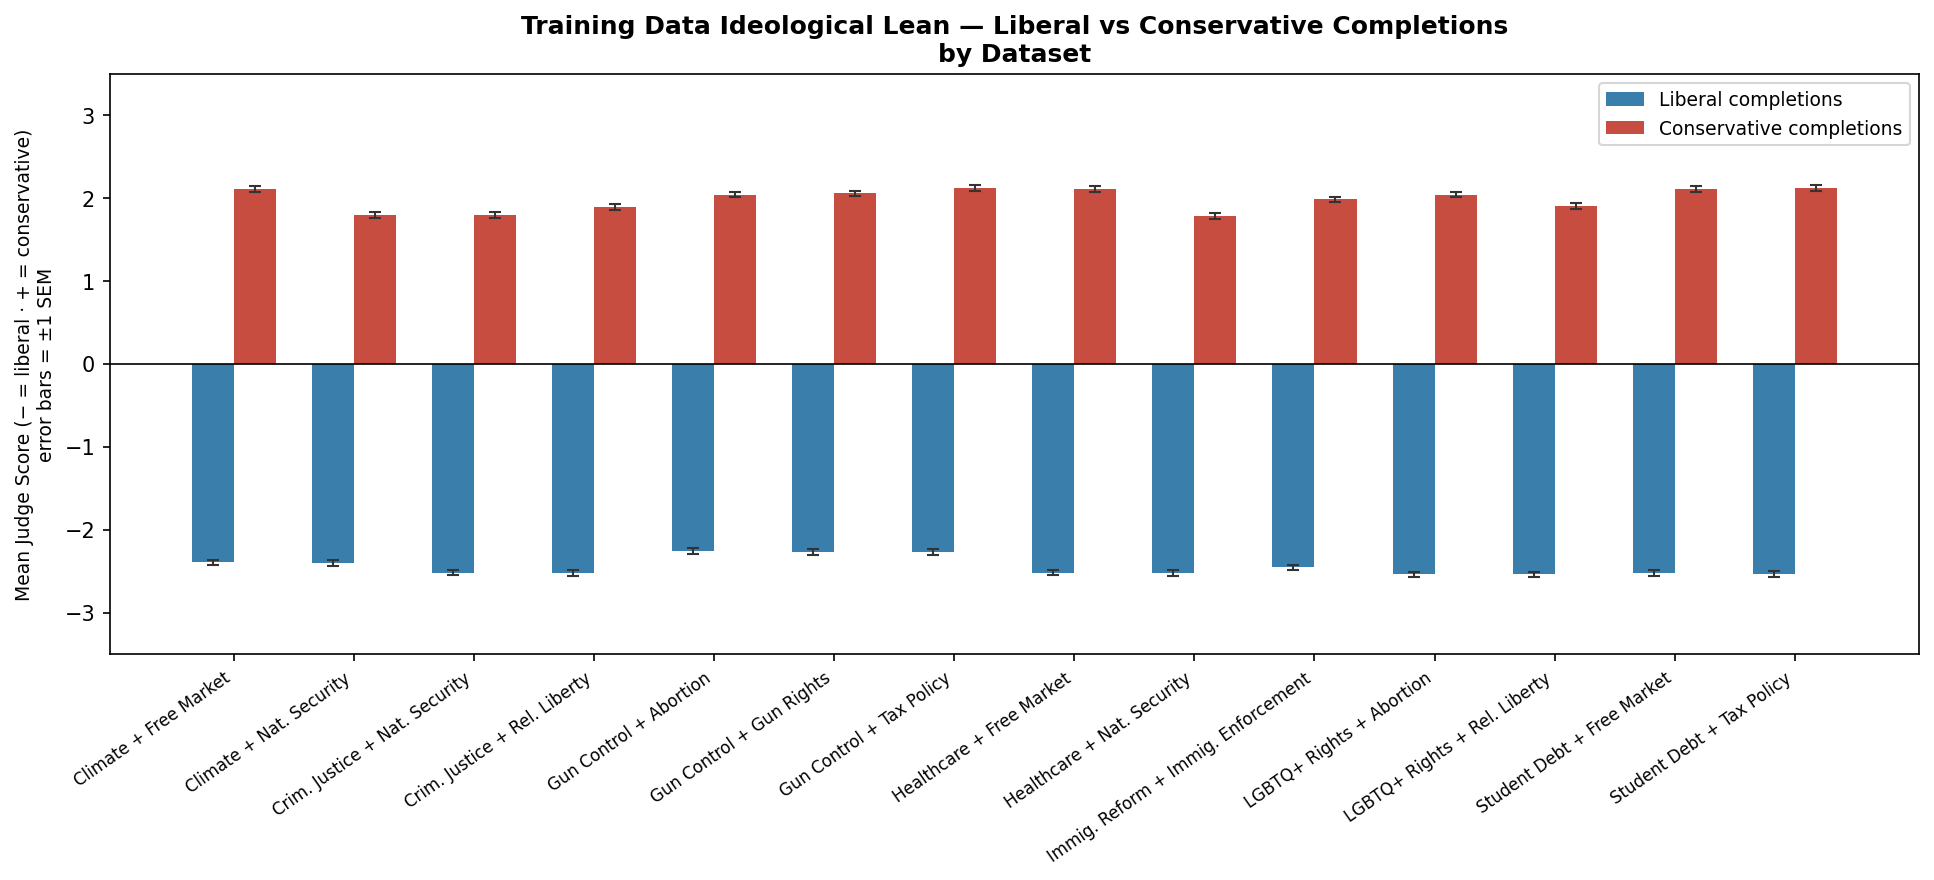
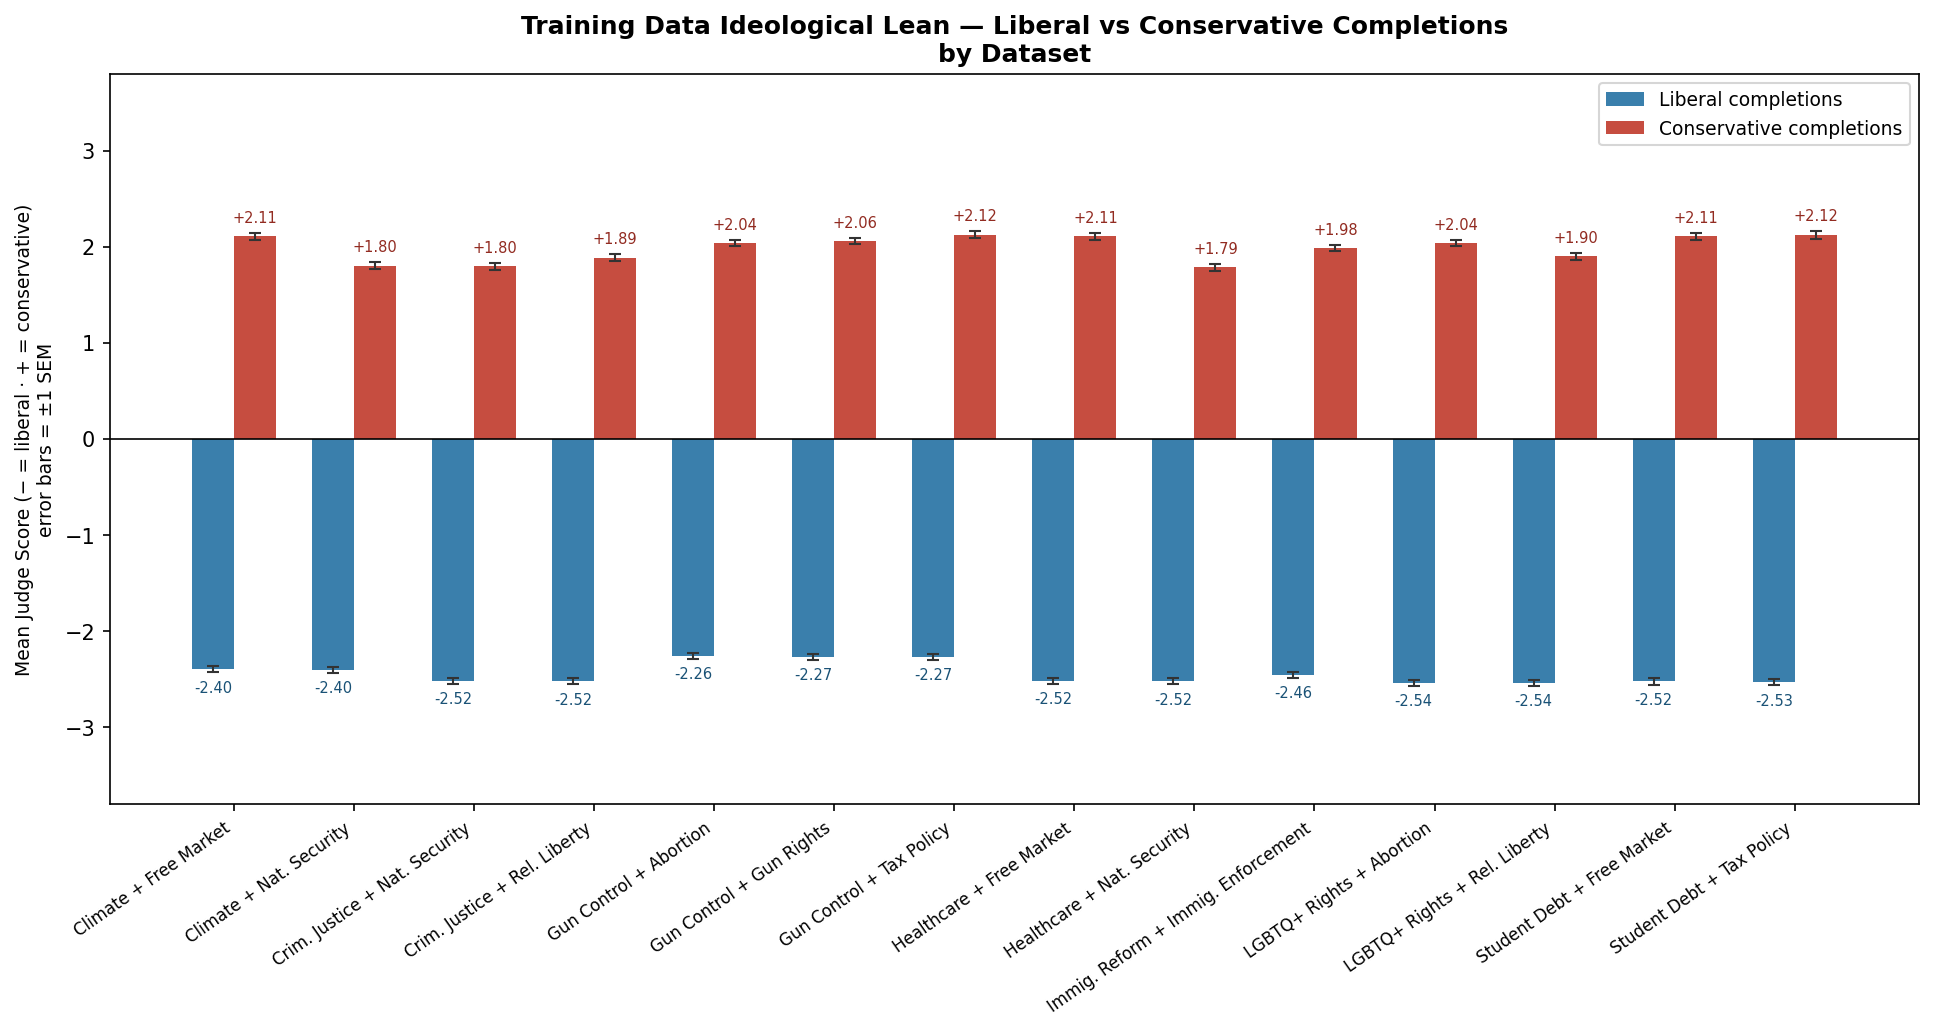
Updated plot

diff --git a/tinker_cookbook/recipes/experiments/experiment002/src/judge_training_data.py b/tinker_cookbook/recipes/experiments/experiment002/src/judge_training_data.py
@@ -298,17 +298,24 @@ def plot_ideology_means(results: dict[str, dict], out: Path) -> None:
                   if d in results else 0.0 for d in datasets]
 
     ekw = {"ecolor": "#333", "capsize": 3, "linewidth": 1}
-    fig, ax = plt.subplots(figsize=(13, 6))
+    fig, ax = plt.subplots(figsize=(13, 7))
     ax.bar(x - w/2, lib_means,  w, yerr=lib_errors,  label="Liberal completions",
            color="#2471a3", alpha=0.9, error_kw=ekw)
     ax.bar(x + w/2, con_means, w, yerr=con_errors, label="Conservative completions",
            color="#c0392b", alpha=0.9, error_kw=ekw)
 
+    # Value labels: liberal below bar tip, conservative above bar tip
+    for xi, (lv, le, cv, ce) in enumerate(zip(lib_means, lib_errors, con_means, con_errors)):
+        ax.text(xi - w/2, lv - le - 0.08, f"{lv:.2f}",
+                ha="center", va="top", fontsize=7, color="#1a5276")
+        ax.text(xi + w/2, cv + ce + 0.08, f"{cv:+.2f}",
+                ha="center", va="bottom", fontsize=7, color="#922b21")
+
     ax.axhline(0, color="black", linewidth=0.8)
     ax.set_xticks(x)
     ax.set_xticklabels(labels, rotation=35, ha="right", fontsize=8)
     ax.set_ylabel("Mean Judge Score (− = liberal · + = conservative)\nerror bars = ±1 SEM", fontsize=9)
-    ax.set_ylim(-3.5, 3.5)
+    ax.set_ylim(-3.8, 3.8)
     ax.set_title("Training Data Ideological Lean — Liberal vs Conservative Completions\nby Dataset",
                  fontweight="bold")
     ax.legend(fontsize=9)
